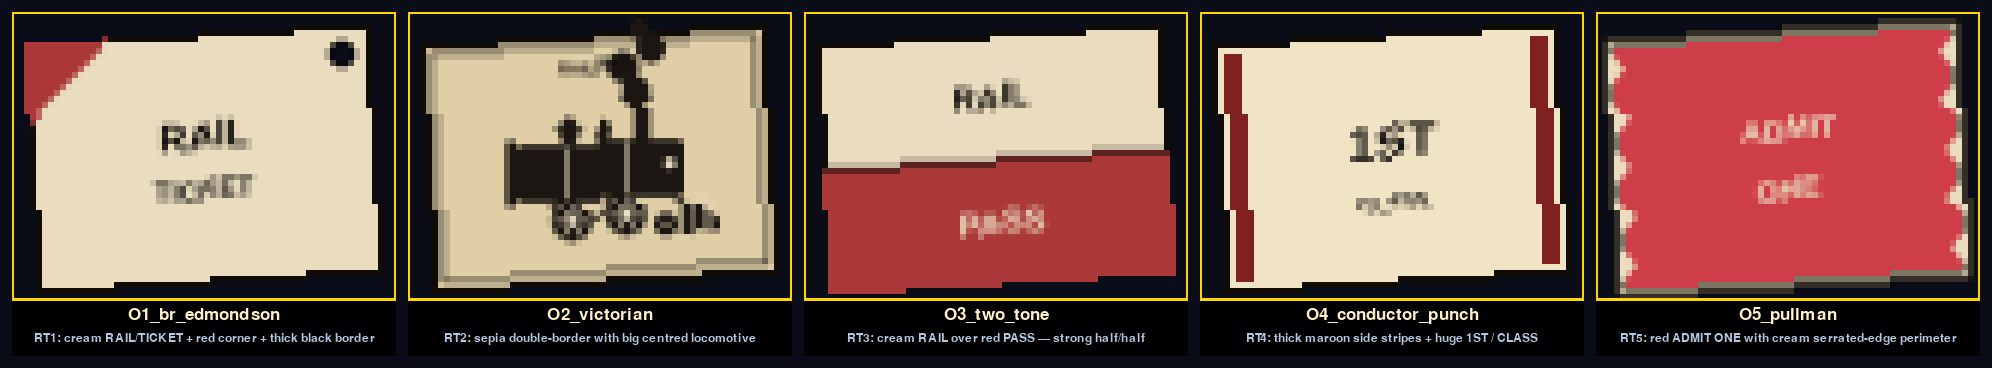
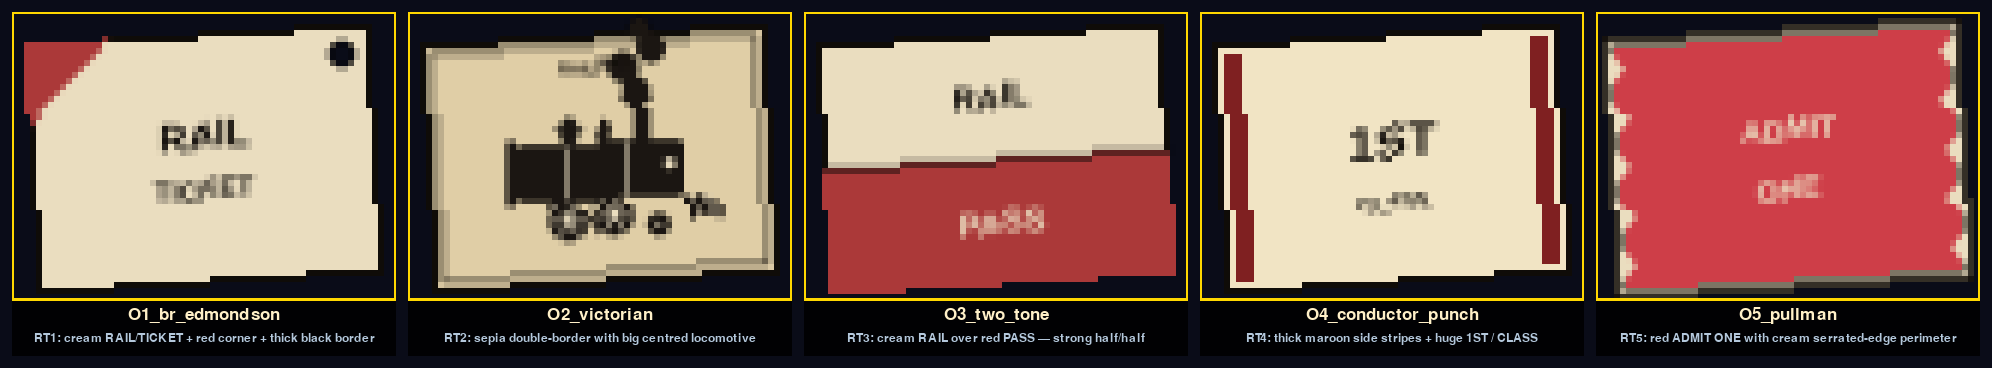
RAIL: wire RT2 live with fixed wheels + thick black perimeter
User picked RT2 (Victorian sepia card with central locomotive)
with two prerequisites:
  1. Fix the wheel positions (still wrong per web reference of
     real Victorian-era steam locomotives).
  2. Add a thick perimeter line to the ticket.

WHEEL + COWCATCHER FIX in _locomotive (variant renderer):
  * Drive wheels narrowed to 28% / 55% of boiler width so they
    sit visibly under the boiler centre.
  * Leading wheel moved to 82% of boiler width - clearly
    between the front driver and the cowcatcher (was at
    boiler.right - 1.5*SS - r, blob-overlapping the cowcatcher
    anchor).
  * Cowcatcher re-anchored to FRONT of the boiler frame,
    slants forward+down but stops well ABOVE the rail line and
    above the leading wheel's bottom (real Victorian
    cowcatchers are deflectors, not snowploughs).
  * Pilot vanes anchored to the new cowcatcher polygon.

LIVE INTEGRATION in game/entities.py:_draw_rail_icon:
  * Dropped the C1 cart-painting code.
  * Painted RT2 recipe at SS=6 / 64x48 native:
    - sepia (228,210,170) paper body
    - THICK 2-SS black outer perimeter
    - lighter 0.6-SS engraved inner border inset 3.5 SS
    - small "RAILWAY" caption (vendored bold) at the top
    - large detailed steam-locomotive silhouette at scale
      1.40 centred on the card with the corrected wheel +
      cowcatcher anchors
  * Animation preserved: bob via sin(pulse * 1.0) * 2,
    +-4 deg tilt with supersample-then-smoothscale rotation.
[…]

Changed region(s): [[0.249, 0.5082, 0.3735, 0.6576]]

diff --git a/game/entities.py b/game/entities.py
@@ -2443,12 +2443,13 @@ class PowerUp:
         draw_chest_at(surf, cx, cy)
 
     def _draw_rail_icon(self, surf):
-        """RAIL pickup — plain wooden minecart with iron hoops on
-        4-spoke iron-rim wheels. No halo, no track, no coins. The
-        cart silhouette previews the experience Pip gets during
-        the rail buff (see `_render_wagon_body` for the in-world
-        cousin). Painted at 6× supersample on a 64×48 native
-        canvas, smoothscaled down."""
+        """RAIL pickup — Victorian engraved train ticket (RT2): sepia
+        paper card with a thick black outer perimeter, a lighter
+        engraved inner border, a small "RAILWAY" caption, and a
+        detailed steam-locomotive silhouette centred on the card.
+        Painted at 6× supersample on a 64×48 native canvas, rotated
+        at supersample and smoothscaled down so the tilted edges
+        stay clean."""
         cx = int(self.x)
         cy = int(self.y + math.sin(self.pulse * 1.0) * 2)
 
@@ -2457,104 +2458,198 @@ class PowerUp:
         sw, sh = NATIVE_W * SS, NATIVE_H * SS
         big = pygame.Surface((sw, sh), pygame.SRCALPHA)
 
-        # Palette — pine planks + iron + dark stroke.
-        WOOD_DARK = ( 78,  50,  26)
-        WOOD_MID  = (135,  88,  44)
-        WOOD_HI   = (185, 130,  70)
-        IRON      = ( 70,  70,  80)
-        IRON_HI   = (150, 155, 170)
-        STROKE    = ( 20,  16,  14)
-        SHADOW    = (  0,   0,   0,  90)
+        # ── palette ──
+        SEPIA      = (228, 210, 170)
+        CREAM      = (238, 225, 195)
+        NEAR_BLACK = ( 18,  14,  10)
+        INK        = ( 30,  25,  20)
+        SHADOW     = (  0,   0,   0,  90)
 
-        # ── helpers (close over `big` + `SS`) ──
+        # ── card body + thick perimeter ──
+        card = pygame.Rect(3 * SS, 3 * SS, sw - 6 * SS, sh - 6 * SS)
+        # Drop shadow.
+        sh_surf = pygame.Surface(
+            (card.width + 4 * SS, card.height + 4 * SS),
+            pygame.SRCALPHA)
+        pygame.draw.rect(sh_surf, SHADOW, sh_surf.get_rect(),
+                         border_radius=int(SS * 0.7))
+        big.blit(sh_surf, sh_surf.get_rect(
+            center=(card.centerx, card.centery + SS + 1)))
+        # Sepia paper fill.
+        pygame.draw.rect(big, SEPIA, card)
+        # THICK black outer perimeter — 2 SS wide.
+        pygame.draw.rect(big, NEAR_BLACK, card, max(2, int(SS * 2)))
+        # Lighter engraved inner border, inset 3.5 SS.
+        inner = card.inflate(-int(SS * 3.5), -int(SS * 3.5))
+        pygame.draw.rect(big, NEAR_BLACK, inner,
+                         max(1, int(SS * 0.6)))
 
-        def vgrad(rect, top_col, bot_col, radius=0):
-            tmp = pygame.Surface(rect.size, pygame.SRCALPHA)
-            h = rect.height
-            for y in range(h):
-                t = y / max(1, h - 1)
-                col = (int(top_col[0] * (1 - t) + bot_col[0] * t),
-                       int(top_col[1] * (1 - t) + bot_col[1] * t),
-                       int(top_col[2] * (1 - t) + bot_col[2] * t))
-                pygame.draw.line(tmp, col, (0, y), (rect.width, y))
-            if radius:
-                mask = pygame.Surface(rect.size, pygame.SRCALPHA)
-                pygame.draw.rect(mask, (255, 255, 255, 255),
-                                 mask.get_rect(),
-                                 border_radius=radius)
-                tmp.blit(mask, (0, 0),
-                         special_flags=pygame.BLEND_RGBA_MIN)
-            big.blit(tmp, rect.topleft)
+        # ── locomotive helper (nested closure so the method stays
+        #     self-contained without importing from tools/) ──
 
-        def cart_body(rect):
-            # Drop shadow.
-            sh_surf = pygame.Surface(
-                (rect.width + 2 * SS, rect.height + 2 * SS),
-                pygame.SRCALPHA)
-            pygame.draw.rect(sh_surf, SHADOW, sh_surf.get_rect(),
-                             border_radius=int(SS * 0.7))
-            big.blit(sh_surf, sh_surf.get_rect(
-                center=(rect.centerx, rect.centery + SS + 1)))
-            # Wood gradient body.
-            vgrad(rect, WOOD_HI, WOOD_DARK, radius=int(SS * 0.7))
-            # 4 vertical plank seams.
-            for i in range(1, 4):
-                px = rect.left + i * rect.width // 4
-                pygame.draw.line(big, WOOD_DARK,
-                                 (px, rect.top + SS),
-                                 (px, rect.bottom - SS),
-                                 max(1, SS // 2))
-            # 2 iron hoop bands.
-            band_h = max(2, int(SS * 0.9))
-            for band_y in (rect.top + int(rect.height * 0.22),
-                           rect.bottom
-                           - int(rect.height * 0.22) - band_h):
-                pygame.draw.rect(big, IRON,
-                                 (rect.left - SS, band_y,
-                                  rect.width + 2 * SS, band_h))
-                pygame.draw.line(big, IRON_HI,
-                                 (rect.left - SS, band_y),
-                                 (rect.right + SS, band_y),
-                                 max(1, SS // 3))
-            # Outline.
-            pygame.draw.rect(big, STROKE, rect,
-                             max(1, int(SS * 0.5)),
-                             border_radius=int(SS * 0.7))
+        def locomotive(loco_cx, loco_cy, scale=1.0):
+            # Boiler — centred at (loco_cx, loco_cy).
+            boiler_w = int(SS * 20 * scale)
+            boiler_h = int(SS * 7 * scale)
+            boiler = pygame.Rect(0, 0, boiler_w, boiler_h)
+            boiler.center = (loco_cx, loco_cy)
+            pygame.draw.rect(big, INK, boiler,
+                             border_radius=max(1, int(SS * 0.8 * scale)))
+            # 2 iron-hoop bands across the boiler.
+            for band_t in (0.30, 0.65):
+                bx = boiler.left + int(boiler.width * band_t)
+                pygame.draw.line(big, CREAM,
+                                 (bx, boiler.top + max(1, SS // 3)),
+                                 (bx, boiler.bottom - max(1, SS // 3)),
+                                 max(1, int(SS * 0.4 * scale)))
+            # Back-plate cap on the left end.
+            plate_w = max(2, int(SS * 1.2 * scale))
+            plate = pygame.Rect(
+                boiler.left - plate_w,
+                boiler.top - max(1, int(SS * 0.5 * scale)),
+                plate_w,
+                boiler.height + max(2, int(SS * 1 * scale)))
+            pygame.draw.rect(big, INK, plate,
+                             border_radius=max(1, SS // 3))
 
-        def spoked_wheel(wcx, wcy, r, spokes=4):
-            pygame.draw.circle(big, (0, 0, 0, 70),
-                               (wcx, wcy + SS // 2 + 1),
-                               r + SS // 2)
-            pygame.draw.circle(big, IRON, (wcx, wcy), r)
-            pygame.draw.circle(big, WOOD_MID, (wcx, wcy),
-                               max(1, r - SS))
-            for i in range(spokes):
-                ang = math.radians(i * (360 / spokes))
-                x2 = wcx + math.cos(ang) * (r - SS)
-                y2 = wcy + math.sin(ang) * (r - SS)
-                pygame.draw.line(big, IRON, (wcx, wcy),
-                                 (int(x2), int(y2)),
-                                 max(1, int(SS * 0.6)))
-            pygame.draw.circle(big, IRON_HI, (wcx, wcy),
-                               max(1, int(SS * 0.8)))
-            pygame.draw.circle(big, STROKE, (wcx, wcy), r,
-                               max(1, SS // 2))
+            # Smokestack with flared cap.
+            stack_w = max(2, int(SS * 2.0 * scale))
+            stack_h = max(3, int(SS * 4.5 * scale))
+            stack_x = boiler.right - int(SS * 5 * scale) - stack_w // 2
+            stack_rect = pygame.Rect(stack_x, boiler.top - stack_h,
+                                      stack_w, stack_h)
+            pygame.draw.rect(big, INK, stack_rect)
+            flare_w = int(stack_w * 1.9)
+            flare_h = max(1, int(SS * 0.9 * scale))
+            flare = pygame.Rect(0, 0, flare_w, flare_h)
+            flare.midbottom = (stack_rect.centerx, stack_rect.top)
+            pygame.draw.rect(big, INK, flare)
 
-        # ── paint the cart ──
-        cart_w = int(SS * 36)
-        cart_h = int(SS * 16)
-        cart = pygame.Rect(0, 0, cart_w, cart_h)
-        cart.center = (sw // 2, sh // 2 + int(SS * 1))
-        cart_body(cart)
-        wheel_r = int(SS * 4.5)
-        wheel_cy = cart.bottom + int(SS * 0.5)
-        for sign in (-1, 1):
-            wcx = cart.centerx + sign * (cart.width // 2
-                                          - int(SS * 5))
-            spoked_wheel(wcx, wheel_cy, wheel_r)
+            # Steam dome.
+            dome_w = max(3, int(SS * 2.4 * scale))
+            dome_h = max(2, int(SS * 1.8 * scale))
+            dome_cx = boiler.left + int(boiler.width * 0.32)
+            dome_rect = pygame.Rect(0, 0, dome_w, dome_h * 2)
+            dome_rect.midbottom = (dome_cx,
+                                    boiler.top + max(1, SS // 3))
+            pygame.draw.ellipse(big, INK, dome_rect)
+            dcap = pygame.Rect(0, 0, int(dome_w * 1.4),
+                                max(1, int(SS * 0.5 * scale)))
+            dcap.midbottom = (dome_cx,
+                               dome_rect.midbottom[1] - dome_h)
+            pygame.draw.rect(big, INK, dcap)
+
+            # Sand dome.
+            sand_w = max(2, int(SS * 1.8 * scale))
+            sand_h = max(2, int(SS * 1.4 * scale))
+            sand_cx = boiler.left + int(boiler.width * 0.52)
+            sand_rect = pygame.Rect(0, 0, sand_w, sand_h * 2)
+            sand_rect.midbottom = (sand_cx,
+                                    boiler.top + max(1, SS // 3))
+            pygame.draw.ellipse(big, INK, sand_rect)
+
+            # Headlight.
+            hl_r = max(2, int(SS * 1.3 * scale))
+            hl_cx = boiler.right - hl_r - int(SS * 0.5 * scale)
+            hl_cy = boiler.top + int(boiler.height * 0.42)
+            pygame.draw.circle(big, INK, (hl_cx, hl_cy),
+                               hl_r + max(1, SS // 3))
+            pygame.draw.circle(big, CREAM, (hl_cx, hl_cy),
+                               max(1, int(hl_r * 0.65)))
+
+            # Wheel sizing + common rail line.
+            big_wheel_r = max(3, int(SS * 2.5 * scale))
+            small_wheel_r = max(2, int(SS * 1.5 * scale))
+            ground_y = (boiler.bottom + int(SS * 2.2 * scale)
+                        + big_wheel_r)
+
+            # Cowcatcher — slants forward+down but stops above the
+            # rail line and ahead of the leading wheel.
+            cow_top_inner = boiler.bottom - max(1,
+                                                 int(SS * 0.4 * scale))
+            cow_outer_x = boiler.right + int(SS * 4 * scale)
+            cow_bot_y = ground_y - int(small_wheel_r * 1.1)
+            cow_top_outer_y = cow_top_inner + int(SS * 1.5 * scale)
+            cow_pts = [
+                (boiler.right, cow_top_inner),
+                (cow_outer_x, cow_top_outer_y),
+                (cow_outer_x, cow_bot_y),
+                (boiler.right, cow_bot_y - int(SS * 0.6 * scale)),
+            ]
+            pygame.draw.polygon(big, INK, cow_pts)
+            for f in (0.30, 0.55, 0.80):
+                vx = cow_pts[0][0] + int(
+                    (cow_pts[1][0] - cow_pts[0][0]) * f)
+                v_top = cow_top_inner + int(SS * 1 * scale * f)
+                v_bot = cow_bot_y - max(1, SS // 3)
+                pygame.draw.line(big, CREAM, (vx, v_top),
+                                 (vx, v_bot), max(1, SS // 3))
+
+            # Driving wheels + leading wheel.
+            drive_y = ground_y - big_wheel_r
+            drive_xs = (
+                boiler.left + int(boiler.width * 0.28),
+                boiler.left + int(boiler.width * 0.55),
+            )
+            for wx in drive_xs:
+                pygame.draw.circle(big, INK, (wx, drive_y),
+                                   big_wheel_r)
+                for ang_deg in (0, 60, 120, 180, 240, 300):
+                    ang = math.radians(ang_deg)
+                    x2 = wx + math.cos(ang) * (big_wheel_r - SS // 2)
+                    y2 = drive_y + math.sin(ang) * (big_wheel_r
+                                                     - SS // 2)
+                    pygame.draw.line(big, CREAM, (wx, drive_y),
+                                     (int(x2), int(y2)),
+                                     max(1, int(SS * 0.45 * scale)))
+                pygame.draw.circle(big, CREAM, (wx, drive_y),
+                                   max(1, int(SS * 0.7 * scale)))
+                pygame.draw.circle(big, INK, (wx, drive_y),
+                                   big_wheel_r,
+                                   max(1, int(SS * 0.35 * scale)))
+            lead_wx = boiler.left + int(boiler.width * 0.82)
+            lead_wy = ground_y - small_wheel_r
+            pygame.draw.circle(big, INK, (lead_wx, lead_wy),
+                               small_wheel_r)
+            pygame.draw.circle(big, CREAM, (lead_wx, lead_wy),
+                               max(1, int(SS * 0.45 * scale)))
+
+            # Coupling rod.
+            rod_h = max(2, int(SS * 0.6 * scale))
+            rod_y = drive_y - int(big_wheel_r * 0.20) - rod_h // 2
+            pygame.draw.rect(big, INK,
+                             (drive_xs[0], rod_y,
+                              drive_xs[1] - drive_xs[0], rod_h))
+            for wx in drive_xs:
+                pygame.draw.circle(big, CREAM,
+                                   (wx, rod_y + rod_h // 2),
+                                   max(1, int(SS * 0.5 * scale)))
+
+            # Smoke puffs above the stack.
+            smoke_x = stack_rect.centerx
+            smoke_y = stack_rect.top - int(SS * 1.5 * scale)
+            for dx, dy, sr in (
+                (0,                       0,                       int(SS * 1.7 * scale)),
+                (int(SS * -1.6 * scale),  int(SS * -2.8 * scale),  int(SS * 2.0 * scale)),
+                (int(SS *  1.8 * scale),  int(SS * -5.0 * scale),  int(SS * 1.8 * scale)),
+                (int(SS *  0.4 * scale),  int(SS * -7.5 * scale),  int(SS * 1.4 * scale)),
+            ):
+                pygame.draw.circle(big, INK,
+                                    (smoke_x + dx, smoke_y + dy),
+                                    max(1, sr))
+
+        # ── small RAILWAY caption at the top ──
+        f_hdr = _get_float_font(int(SS * 2.8))
+        hdr = f_hdr.render("RAILWAY", True, NEAR_BLACK)
+        big.blit(hdr, hdr.get_rect(
+            center=(card.centerx, card.top + int(SS * 5.5))))
+
+        # ── locomotive centred on the card ──
+        locomotive(card.centerx, card.centery + int(SS * 2),
+                   scale=1.40)
 
         # Rotate at supersample then smoothscale down so the tilted
-        # edges stay clean. Slight ±4° tilt for the "alive" feel.
+        # edges stay clean. ±4° tilt for the "alive" feel.
         tilt = math.sin(self.pulse * 0.7) * 4
         rotated = pygame.transform.rotate(big, tilt)
         rw, rh = rotated.get_size()

diff --git a/tools/render_rail_oldschool_ticket_variants.py b/tools/render_rail_oldschool_ticket_variants.py
@@ -212,37 +212,47 @@ def _locomotive(big, SS, cx, cy, scale=1.0, colour=INK,
     pygame.draw.circle(big, window_col, (hl_cx, hl_cy),
                        max(1, int(hl_r * 0.65)))
 
-    # Common rail-line — every wheel touches this ground.
+    # Common rail-line — every wheel touches this ground. The
+    # cowcatcher floats ABOVE the rail (real pilots are deflectors,
+    # not snowploughs).
     big_wheel_r = max(3, int(SS * 2.5 * scale))
     small_wheel_r = max(2, int(SS * 1.5 * scale))
     ground_y = boiler.bottom + int(SS * 2.2 * scale) + big_wheel_r
 
     # ── Cowcatcher / pilot at the front-bottom ──
-    cow_top = boiler.bottom - max(1, SS // 3)
+    # Inner edge attaches to the bottom-front of the boiler; outer
+    # edge slopes forward+down but stops well ABOVE the rail line
+    # (and above the leading wheel's bottom) so it reads as a
+    # deflector hanging in front of the wheel rather than overlapping
+    # with the rail-and-wheel assembly.
+    cow_top_inner = boiler.bottom - max(1, int(SS * 0.4 * scale))
+    cow_outer_x = boiler.right + int(SS * 4 * scale)
+    cow_bot_y = ground_y - int(small_wheel_r * 1.1)
+    cow_top_outer_y = cow_top_inner + int(SS * 1.5 * scale)
     cow_pts = [
-        (boiler.right - int(SS * 1 * scale), cow_top),
-        (boiler.right + int(SS * 3.5 * scale),
-         ground_y - small_wheel_r),
-        (boiler.right + int(SS * 3.5 * scale), ground_y),
-        (boiler.right - int(SS * 1 * scale),
-         ground_y - int(SS * 0.4 * scale)),
+        (boiler.right, cow_top_inner),
+        (cow_outer_x, cow_top_outer_y),
+        (cow_outer_x, cow_bot_y),
+        (boiler.right, cow_bot_y - int(SS * 0.6 * scale)),
     ]
     pygame.draw.polygon(big, colour, cow_pts)
     # 3 vertical vanes hinting at the pilot grille.
     for f in (0.30, 0.55, 0.80):
         vx = cow_pts[0][0] + int((cow_pts[1][0] - cow_pts[0][0]) * f)
-        v_top = cow_top + int(SS * 1 * scale * f)
-        v_bot = ground_y - max(1, SS // 2)
+        v_top = cow_top_inner + int(SS * 1 * scale * f)
+        v_bot = cow_bot_y - max(1, SS // 3)
         pygame.draw.line(big, window_col, (vx, v_top), (vx, v_bot),
                          max(1, SS // 3))
 
     # ── Driving wheels (2 big, spoked) + leading wheel (1 small) ──
-    # All three wheels share `ground_y`, so their centres differ in
-    # vertical position by exactly `big_wheel_r − small_wheel_r`.
+    # All three wheels share `ground_y`. Drivers spaced 28% / 55%
+    # of boiler width so they sit visibly under the boiler centre;
+    # leading wheel at 82% so it's clearly between the front driver
+    # and the cowcatcher.
     drive_y = ground_y - big_wheel_r
     drive_xs = (
-        boiler.left + int(boiler.width * 0.30),
-        boiler.left + int(boiler.width * 0.62),
+        boiler.left + int(boiler.width * 0.28),
+        boiler.left + int(boiler.width * 0.55),
     )
     for wx in drive_xs:
         pygame.draw.circle(big, colour, (wx, drive_y),
@@ -262,10 +272,9 @@ def _locomotive(big, SS, cx, cy, scale=1.0, colour=INK,
         pygame.draw.circle(big, colour, (wx, drive_y),
                            big_wheel_r,
                            max(1, int(SS * 0.35 * scale)))
-    # Leading wheel (pony truck) — in FRONT of the front driver,
-    # BEHIND the cowcatcher. Sits visually higher because of the
-    # smaller radius, but rests on the same ground line.
-    lead_wx = boiler.right - int(SS * 1.5 * scale) - small_wheel_r
+    # Leading wheel (pony truck) — clearly between the front
+    # driver and the cowcatcher. No spokes (too small to read).
+    lead_wx = boiler.left + int(boiler.width * 0.82)
     lead_wy = ground_y - small_wheel_r
     pygame.draw.circle(big, colour, (lead_wx, lead_wy),
                        small_wheel_r)
